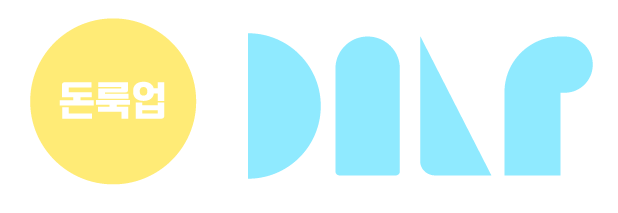
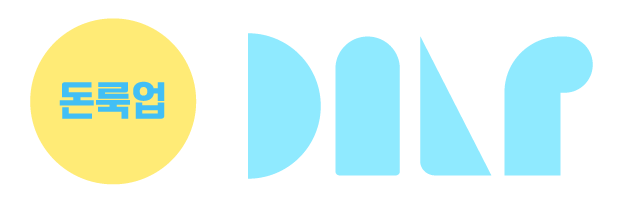
:lipstick: UI 수정

Changed region(s): [[0.0922, 0.3662, 0.2767, 0.5634]]

diff --git a/front/src/components/common/Header.js b/front/src/components/common/Header.js
@@ -6,9 +6,8 @@ import MenuItem from '@mui/material/MenuItem';
 import IconButton from '@mui/material/IconButton';
 import Menu from '@mui/material/Menu';
 import { makeStyles } from '@material-ui/core';
-import logoWhite from '../../assets/Logo_white.png';
 import DNLPlogWhite from '../../assets/로고-edited-2.png';
-import DNLPlogoBlue from '../../assets/로고-edited-2.png';
+import DNLPlogoBlue from '../../assets/로고-edited-1.png';
 import { UserContext } from '../../contexts/context';
 import PostSearchDrawer from '../postSearch/PostSearch';
 import CurrentPostButton from '../postSearch/CurrentPostButton';
@@ -32,6 +31,16 @@ const Header = () => {
   };
 
   const handleMenuClose = () => {
+    setMenuAnchorEl(null);
+  };
+
+  const handleMain = () => {
+    navigate('/main');
+    setMenuAnchorEl(null);
+  };
+
+  const handleFavorit = () => {
+    navigate('/favorite');
     setMenuAnchorEl(null);
   };
 
@@ -64,18 +73,22 @@ const Header = () => {
             <MenuIcon style={{ margin: '0 2.4vh 0 1.2vh' }} />
           </IconButton>
           <Link to="/" style={{ padding: '10px 0 0 0' }}>
-            <img src={DNLPlogWhite} alt="logo white" style={{ height: '4em' }} />
+            <img
+              src={`${parseInt(new Date().getHours(), 10) >= 7 && parseInt(new Date().getHours(), 10) <= 19 ? DNLPlogWhite : DNLPlogoBlue}`}
+              alt="logo white"
+              style={{ height: '4em' }}
+            />
           </Link>
         </div>
         <Menu anchorEl={menuAnchorEl} open={Boolean(menuAnchorEl)} onClose={handleMenuClose} keepMounted>
           {/* Add your menu items here */}
-          <MenuItem id="menuItem" onClick={() => navigate('/main')} style={{ fontFamily: 'GmarketSansMedium' }}>
+          <MenuItem id="menuItem" onClick={handleMain} style={{ fontFamily: 'GmarketSansMedium' }}>
             메인페이지
           </MenuItem>
-          <MenuItem id="menuItem" onClick={() => navigate('/user')} style={{ fontFamily: 'GmarketSansMedium' }}>
+          {/* <MenuItem id="menuItem" onClick={() => navigate('/user')} style={{ fontFamily: 'GmarketSansMedium' }}>
             마이페이지
-          </MenuItem>
-          <MenuItem id="menuItem" onClick={() => navigate('/favorite')} style={{ fontFamily: 'GmarketSansMedium' }}>
+          </MenuItem> */}
+          <MenuItem id="menuItem" onClick={handleFavorit} style={{ fontFamily: 'GmarketSansMedium' }}>
             즐겨찾기
           </MenuItem>
         </Menu>

diff --git a/front/src/lib/apis/api.js b/front/src/lib/apis/api.js
@@ -1,7 +1,8 @@
 import axios from 'axios';
 
 const backendPortNumber = '5001';
-const serverUrl = `http://${window.location.hostname}:${backendPortNumber}`;
+// const serverUrl = `http://${window.location.hostname}:${backendPortNumber}`;
+const serverUrl = `http://kdt-ai7-team05.elicecoding.com:${backendPortNumber}`;
 
 async function get(endpoint, params) {
   console.log('params', params);

diff --git a/front/src/components/weatherCard/WeatherCard.js b/front/src/components/weatherCard/WeatherCard.js
@@ -49,7 +49,7 @@ export default function WeatherCard({ area }) {
   const isWeather = Object.keys(weather).length > 0;
 
   return (
-    <Card sx={{ maxWidth: 400 }}>
+    <Card sx={{ maxWidth: 400, backgroundColor: 'rgba(255,255,255,0.5)' }}>
       {isWeather ? (
         <>
           <CardActionArea onClick={handleWeatherClick}>

diff --git a/front/src/components/weatherCard/WeatherCard.css b/front/src/components/weatherCard/WeatherCard.css
@@ -18,7 +18,7 @@
   padding-right: 1.4881vw;
   font-family: 'GmarketSansMedium';
   line-height: '160%';
-  color: #42bff5;
+  color: #ffeb76;
 }
 
 @keyframes textLoop {
